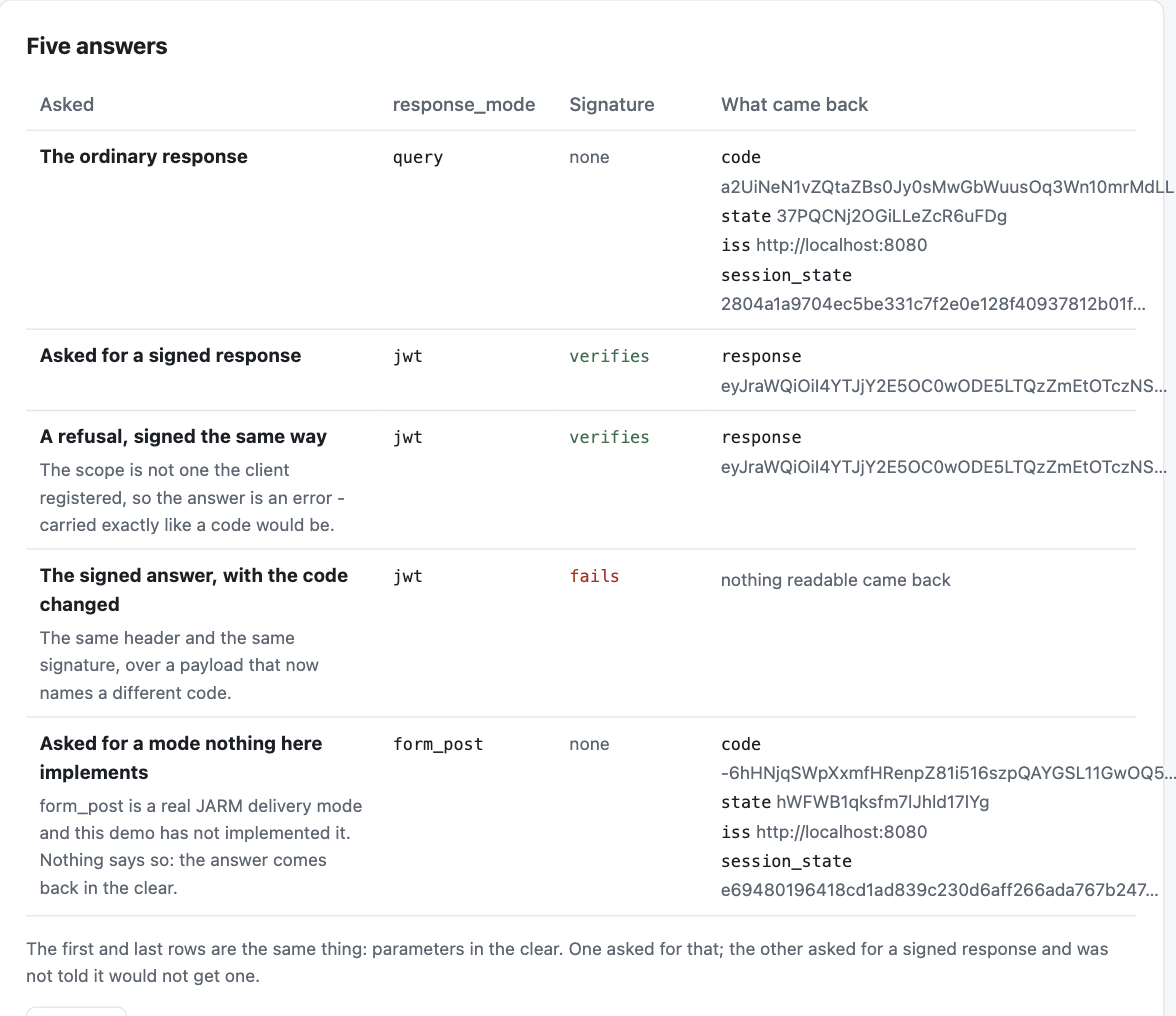
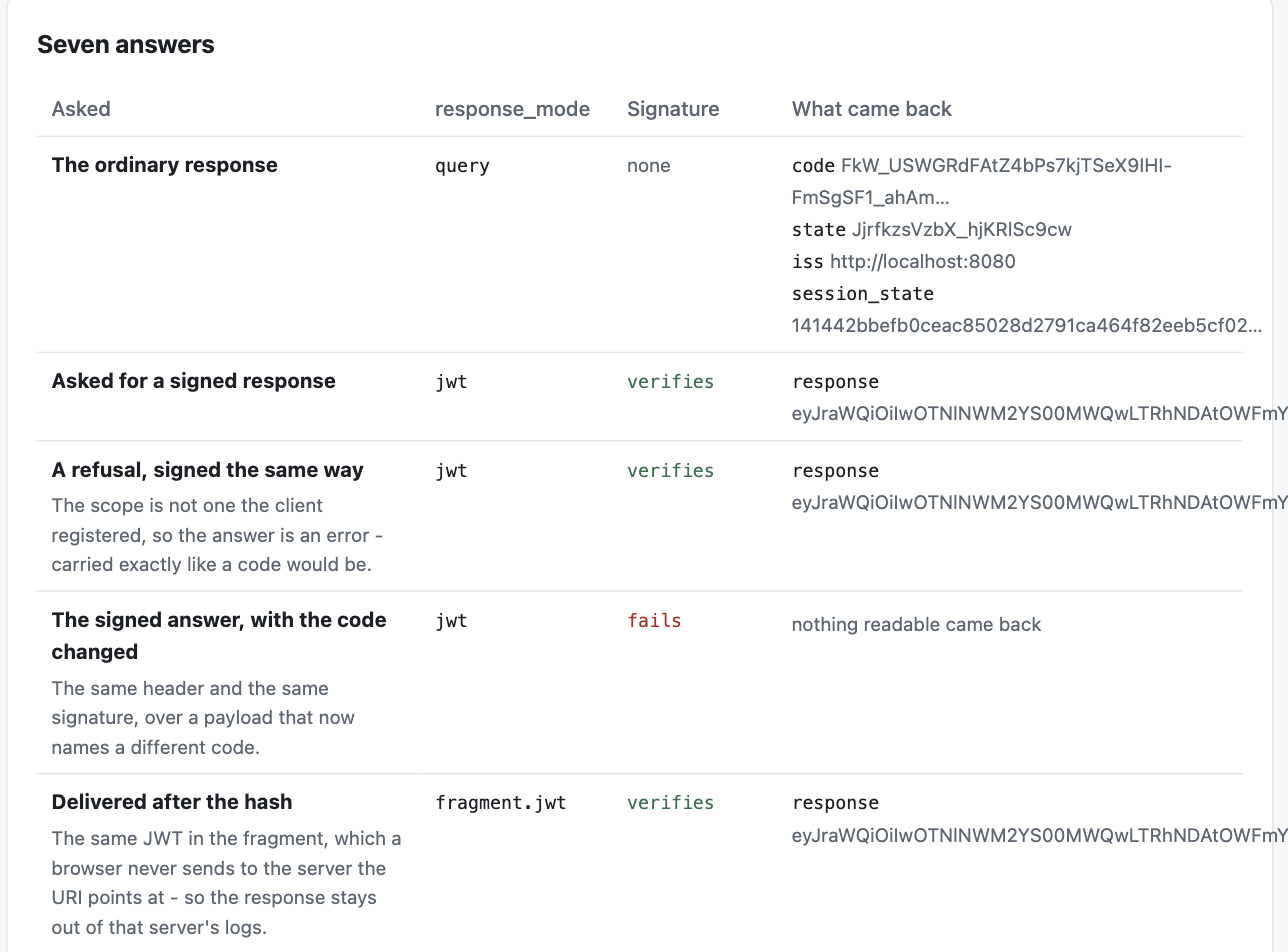
docs: document all four JARM delivery modes 📝🧩
The table grows to seven rows, the screenshots are retaken, and the note
that two modes were missing becomes a note about what the three deliveries
are for: the query string reaches the client's access log, the fragment
never leaves the browser, and a form post has no length ceiling. Plus why
the form post arrives without a CSRF token.

diff --git a/README.md b/README.md
@@ -515,14 +515,19 @@ each addressed to whoever asked.
 
 ![The signed response](docs/images/94-introspection-signed-response.png)
 
-**94. JARM** — the same authorization asked for five ways. Two answers are signed, one is tampered
+**94. JARM** — the same authorization asked for seven ways. Four answers are signed, one is tampered
 with, and two arrive in the clear.
 
-![Five answers](docs/images/95-jarm-five-answers.png)
+![Seven answers](docs/images/95-jarm-seven-answers.png)
 
 **95. JARM** — inside the signed answers: a code and a refusal, each with `iss`, `aud` and `exp`.
 
 ![The signed claims](docs/images/96-jarm-signed-claims.png)
+
+**96. JARM** — the three deliveries: after the hash, in a form the browser posts, and a mode this
+server does not read.
+
+![The delivery modes](docs/images/97-jarm-delivery-modes.png)
 
 ## Refresh tokens and public clients
 
@@ -1387,7 +1392,9 @@ The same authorization is asked for five ways:
 | Asked for a signed response | `jwt` | verifies | one `response` parameter |
 | A refusal, signed the same way | `jwt` | verifies | `error: invalid_scope`, inside the JWT |
 | The signed answer, with the code changed | `jwt` | **fails** | — |
-| Asked for a mode nothing here implements | `form_post` | none | `code`, `state`, `iss` |
+| Delivered after the hash | `fragment.jwt` | verifies | `#response=…` |
+| Delivered in a form the browser posts | `form_post.jwt` | verifies | a self-submitting page; the client read it from its own request body |
+| Asked for a mode nothing here implements | `fragment` | none | `code`, `state`, `iss` |
 
 Notes:
 
@@ -1405,9 +1412,18 @@ Notes:
   same damage either way.
 * **Tampering fails on the signature, not the contents.** The fourth row is the second row's answer
   with one claim rewritten — right issuer, right audience, plausible code, and refused.
-* **Two delivery modes are missing, and only the delivery.** JARM also defines `fragment.jwt` and
-  `form_post.jwt`, which differ in how the JWT reaches the client rather than in what it contains.
-  This implements `jwt` and `query.jwt`, the pair that means "on the query string".
+* **Three deliveries, one JWT.** The signed response is identical in every mode; what differs is
+  where it travels. `query.jwt` (and plain `jwt`, the same thing for this flow) puts it on the query
+  string, where it reaches the client's server in the request line and therefore its access log.
+  `fragment.jwt` puts it after the `#`, which a browser never sends to that server at all.
+  `form_post.jwt` puts it in no URL whatsoever — the authorization server answers with a page that
+  submits itself, and the client reads its own request body. Length is the practical reason for the
+  last one: a signed response is roughly a kilobyte, and URLs have limits that vary by browser and by
+  every proxy in between.
+* **The form post arrives without a CSRF token**, because it is submitted by a page the authorization
+  server wrote — which is the shape of any response arriving from a server elsewhere. `/jarm/callback`
+  is exempted for that reason, and it is the one endpoint here that reads a JARM response out of a
+  body rather than a URL.
 
 ## JWT-secured authorization requests (JAR)
 
